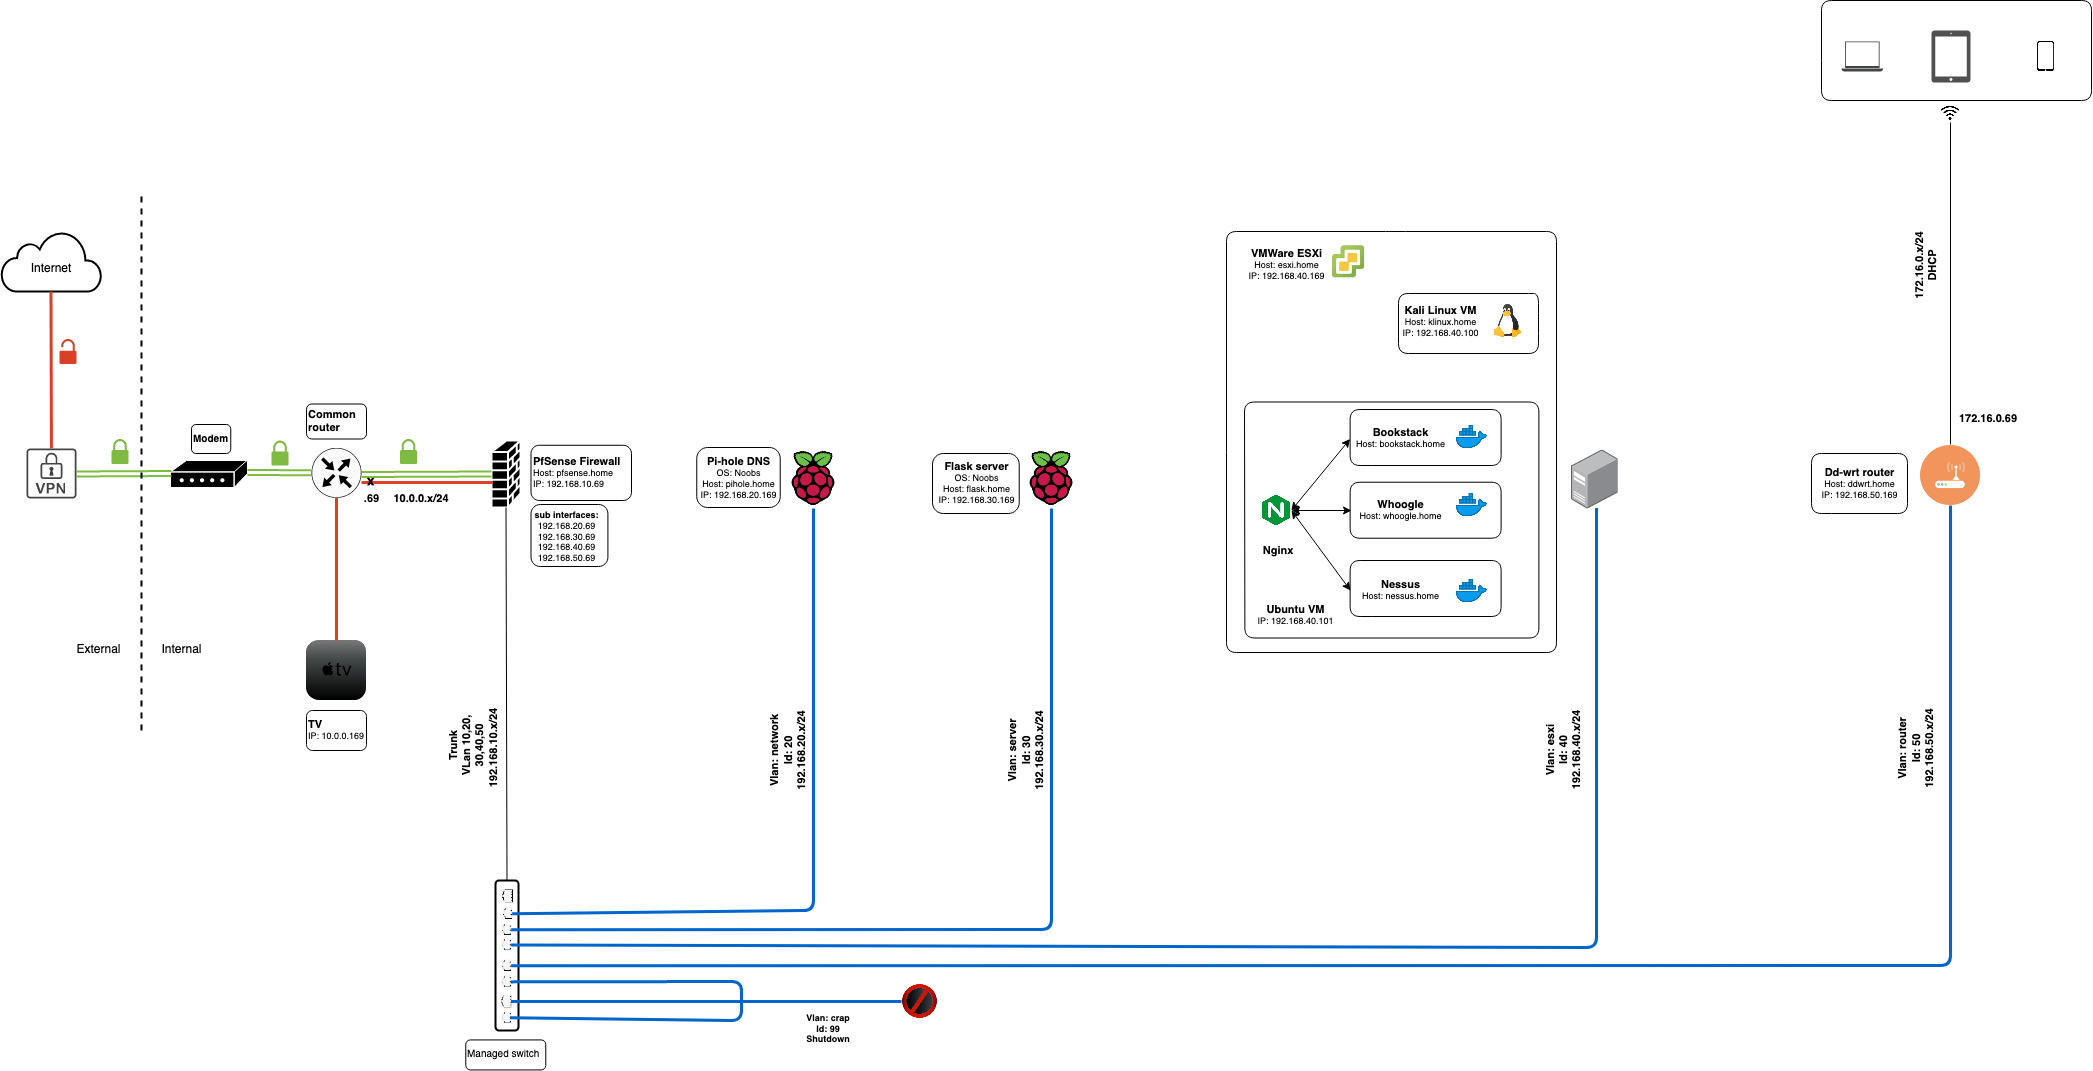
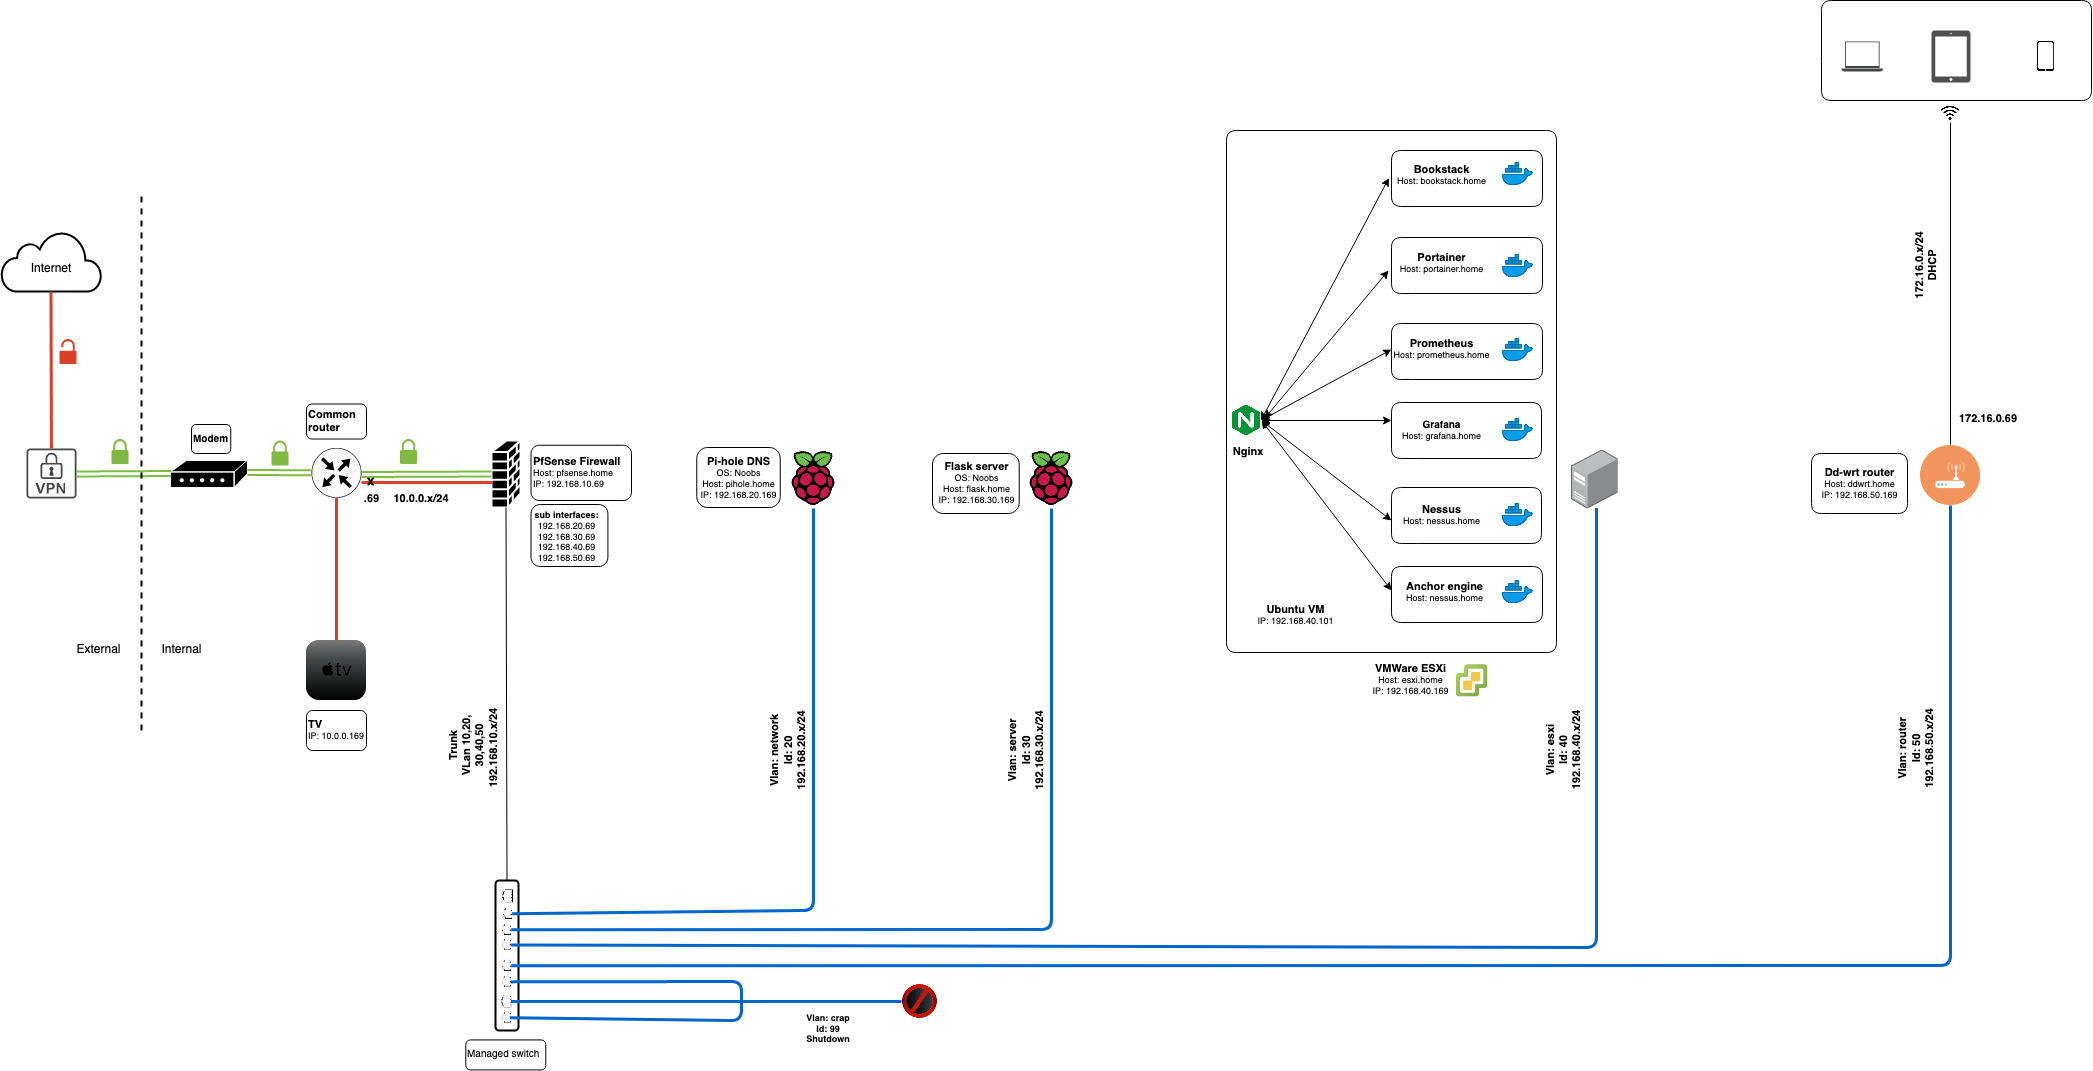
Added new docker services

diff --git a/README.md b/README.md
@@ -11,7 +11,10 @@ This repo shows Network diagram and lists Operating systems and Services that ar
 - [Nginx](https://www.nginx.com/) used for Reverse Proxy.
 - [Docker](https://www.docker.com/) used for Container platform.
 - [Bookstack](https://www.bookstackapp.com/) used for organising and storing information.
-- [Whoogle](https://github.com/benbusby/whoogle-search) used as Google alternative.
+- [Portainer] (https://www.portainer.io/) used for docker management.
+- [Prometheus] (https://prometheus.io/) used for systems monitoring.
+- [Grafana] (https://grafana.com/) used for visualization.
+- [Anchor Engine] (https://anchore.com/) used for container scanning.
 - [Nessus](https://www.tenable.com/products/nessus) used to scan hosts on the network.
 
 ### Operating systems
